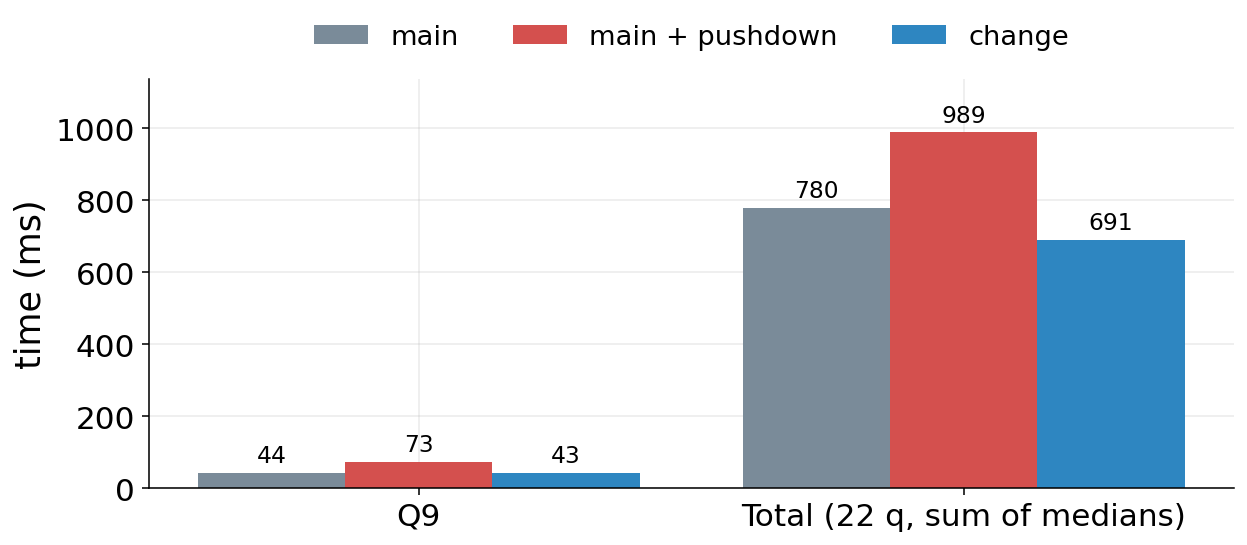
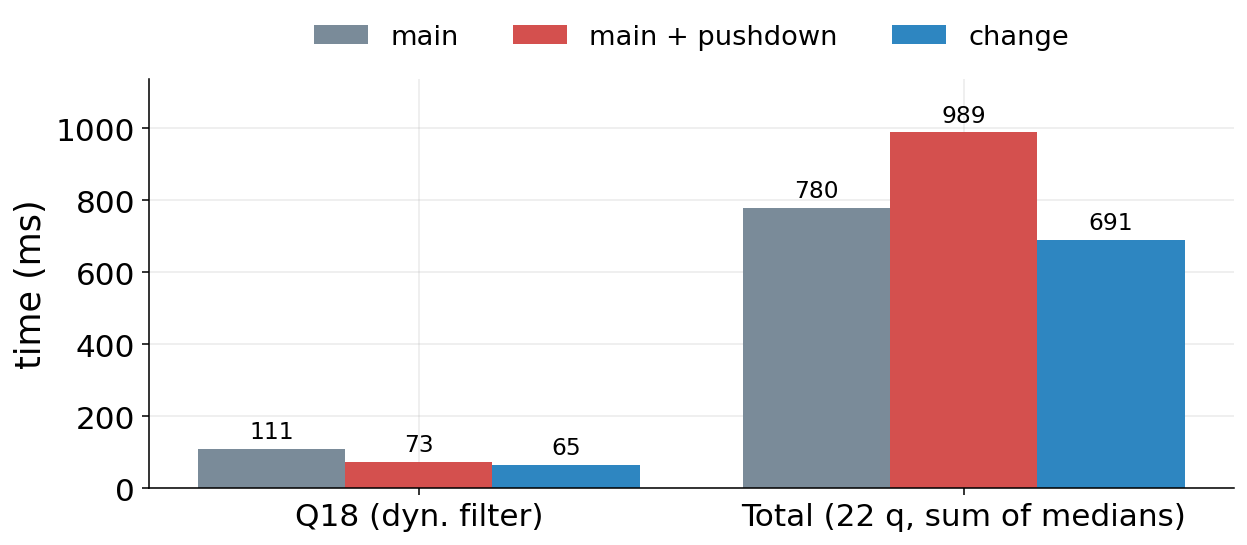
slides: fix TPC-H slide rendering — chart now shows Q18, takeaway fits
Slide 6's chart was pointed at Q9 (the old worst-loss query) but the
takeaway leads with Q18 as the headline dynamic-filter win.  Swap the
TPC-H no-lat chart to Q18 (111 → 65 ms = 0.59× of main) and trim the
takeaway prose so it fits within the slide bounds.

TPC-H S3 chart still uses Q9 — there it tells the 2.58× pushdown-on-
main regression story that the change neutralises.

Changed region(s): [[0.2438, 0.9046, 0.4571, 0.967], [0.1524, 0.7798, 0.2743, 0.8734], [0.3962, 0.811, 0.518, 0.8734]]

diff --git a/slides/datafusion-meetup-05-2026/presentation.html b/slides/datafusion-meetup-05-2026/presentation.html
@@ -278,8 +278,7 @@ img[alt~=&quot;center&quot;] { display: block; margin: 0 auto; }
 <h1 id="tpc-h-sf1--ssd--the-single-row-group-case">TPC-H SF1 · SSD — the single-row-group case</h1>
 <p><img src="img/tpch_nolat.png" alt="center" /></p>
 <div class="takeaway">
-<p><code>main + pushdown</code> regresses <strong>27 %</strong> on a workload that is mostly <em>not</em> about filters. <strong><code>change</code> 691 ms — 11 % <em>faster</em> than <code>main</code>, 30 % faster than <code>main + pushdown</code>.</strong><br />
-TPC-H's <code>lineitem</code> is a single file with a single row group, so the picks have to be right on file open. The pruning-rate prior promotes the filters that benefit — Q18's <code>l_quantity IN (subquery)</code> dynamic filter lands at <strong>0.59× of <code>main</code></strong> (46 of the 89 ms total delta), and Q1/Q3/Q19 contribute smaller page-skipping wins on selective predicates.</p>
+<p><strong><code>change</code> 691 ms — 11 % <em>faster</em> than <code>main</code>, 30 % faster than <code>main + pushdown</code>.</strong> TPC-H's <code>lineitem</code> is one file of one row group, so the picks have to be right on file open. The pruning-rate prior promotes the filters that benefit: <strong>Q18</strong>'s <code>l_quantity IN (subquery)</code> dynamic filter lands at <strong>0.59× of <code>main</code></strong> (46 of the 89 ms total delta); Q1/Q3/Q19 contribute smaller page-skipping wins.</p>
 </div>
 </section>
 </foreignObject></svg><svg data-marpit-svg="" viewBox="0 0 1280 720"><foreignObject width="1280" height="720"><section id="7" data-paginate="true" data-theme="default" data-style="section {

diff --git a/slides/datafusion-meetup-05-2026/make_plots.py b/slides/datafusion-meetup-05-2026/make_plots.py
@@ -148,8 +148,8 @@ print("TPC-H SSD     →", render_pair(
     "MAIN-nopushdown/tpch_sf1.json",
     "MAIN-pushdown/tpch_sf1.json",
     "R6-STACK-pushdown/tpch_sf1.json",
-    query_name="Query 9",
-    query_label="Q9",
+    query_name="Query 18",
+    query_label="Q18 (dyn. filter)",
     total_label="Total (22 q, sum of medians)",
     out_name="tpch_nolat.png",
 ))

diff --git a/slides/datafusion-meetup-05-2026/presentation.md b/slides/datafusion-meetup-05-2026/presentation.md
@@ -157,8 +157,7 @@ Slide 5 — TPC-DS SSD (~45s):
 
 <div class="takeaway">
 
-`main + pushdown` regresses **27 %** on a workload that is mostly *not* about filters. **`change` 691 ms — 11 % *faster* than `main`, 30 % faster than `main + pushdown`.**
-TPC-H's `lineitem` is a single file with a single row group, so the picks have to be right on file open. The pruning-rate prior promotes the filters that benefit — Q18's `l_quantity IN (subquery)` dynamic filter lands at **0.59× of `main`** (46 of the 89 ms total delta), and Q1/Q3/Q19 contribute smaller page-skipping wins on selective predicates.
+**`change` 691 ms — 11 % *faster* than `main`, 30 % faster than `main + pushdown`.** TPC-H's `lineitem` is one file of one row group, so the picks have to be right on file open. The pruning-rate prior promotes the filters that benefit: **Q18**'s `l_quantity IN (subquery)` dynamic filter lands at **0.59× of `main`** (46 of the 89 ms total delta); Q1/Q3/Q19 contribute smaller page-skipping wins.
 
 </div>
 